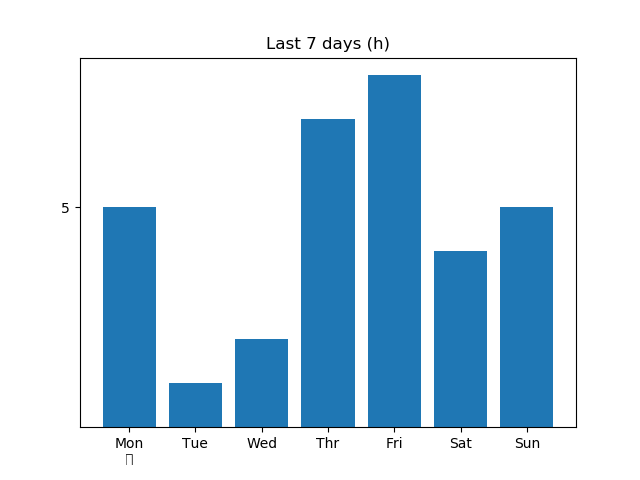
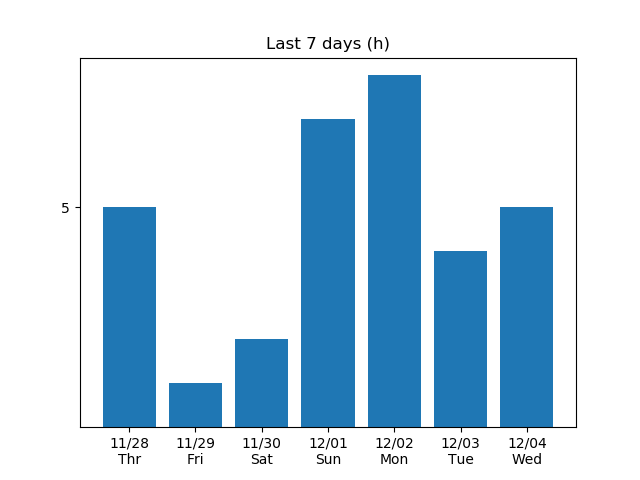
Update graph.py

diff --git a/Data_gathering/graph.py b/Data_gathering/graph.py
@@ -2,19 +2,22 @@ from matplotlib import pyplot as plt
 from pylab import *
 import time
 
-x_data = range(0, 7)
 y_data = [5, 1, 2, 7, 8, 4, 5]
 perf = 10
 
-wday = {0:'월', 1:'화', 2:'수', 3:'목', 4:'금', 5:'토', 6:'일'}
-t = time.localtime()
-starttime = '%04d-%02d-%02d %02d:%02d:%02d' % (t.tm_year, t.tm_mon, t.tm_mday, t.tm_hour, t.tm_min, t.tm_sec)
+wday = {0: 'Mon', 1: 'Tue', 2: 'Wed', 3: 'Thr', 4: 'Fri', 5: 'Sat', 6: 'Sun'}
+xtick = []
+for i in range(7):
+    t = time.localtime(time.time() - 86400 * (7 - i))
+    xtick.append("%s\n%s" % ('%02d/%02d' % (t.tm_mon, t.tm_mday), wday[t.tm_wday]))
 
-fig = plt.bar(x_data, y_data)
+fig = plt.bar(range(0, 7), y_data)
 plt.title("Last 7 days (h)")
-plt.xticks(x_data, ["Mon", "Tue", "Wed", "Thr", "Fri", "Sat", "Sun"])
+plt.xticks(range(0, 7), xtick)
 plt.yticks([5])
 # yticks(sort(y_data))
 plt.savefig("../Web/images/overview.png")
 plt.show()
 plt.close()
+
+# TODO 수면 시간 미리 입력받아서 그 라인 쭉 그어주기

diff --git a/Data_gathering/main.py b/Data_gathering/main.py
@@ -127,8 +127,8 @@ avg_TM_HD = c.execute('''SELECT avg(TM), avg(HD) FROM tmhd WHERE Timestamp BETWE
 avg_LX = c.execute('''SELECT avg(LX) FROM lux WHERE Timestamp BETWEEN "%s" and "%s"''' % (starttime, endtime)).fetchone()
 
 # 저장
-today_date = '%04d-%02d-%02d' % (t.tm_year, t.tm_mon, t.tm_mday - 1)
-db_insert([today_date, starttime, endtime, avg_TM_HD[0], avg_TM_HD[1],
+date = '%04d-%02d-%02d' % (t.tm_year, t.tm_mon, time.localtime(time.time() - 86400).tm_mday)
+db_insert([date, starttime, endtime, avg_TM_HD[0], avg_TM_HD[1],
            avg_LX[0], tag], '''INSERT INTO Sleeptionary VALUES(?,?,?,?,?,?,?)''')
 
 # TODO 그래프 그리기

diff --git a/Data_gathering/dev_main.py b/Data_gathering/dev_main.py
@@ -132,8 +132,8 @@ print("avg_LX : ")
 print(avg_LX)
 
 # 저장
-today_date = '%04d-%02d-%02d' % (t.tm_year, t.tm_mon, t.tm_mday - 1)
-db_insert([today_date, starttime, endtime, avg_TM_HD[0], avg_TM_HD[1],
+date = '%04d-%02d-%02d' % (t.tm_year, t.tm_mon, time.localtime(time.time() - 86400).tm_mday)
+db_insert([date, starttime, endtime, avg_TM_HD[0], avg_TM_HD[1],
            avg_LX[0], tag], '''INSERT INTO Sleeptionary VALUES(?,?,?,?,?,?,?)''')
 
 # TODO 그래프 그리기
